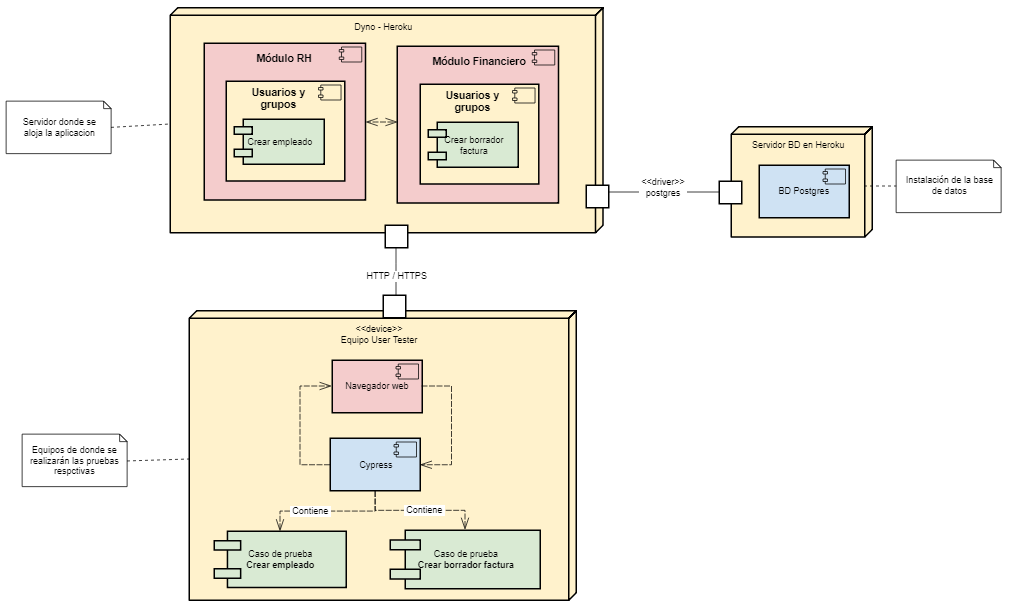
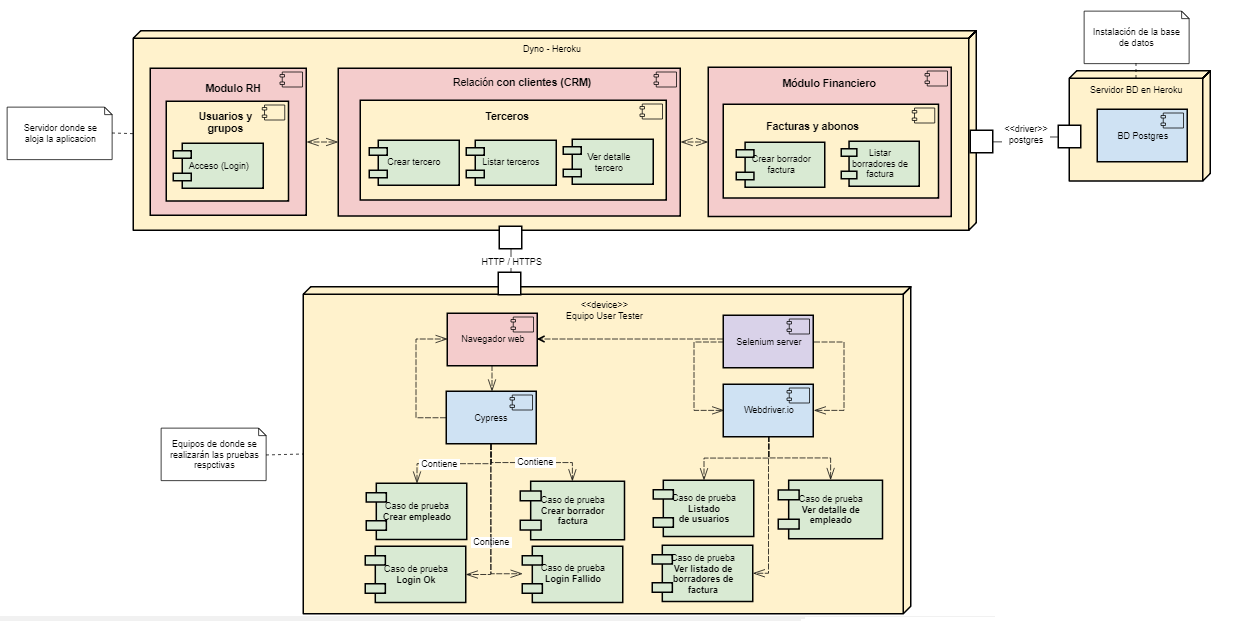
Modificacion de imagenes de arquitectura

diff --git a/CasosdePruebas/Cypress/creacion_tercero.js b/CasosdePruebas/Cypress/creacion_tercero.js
@@ -1,0 +1,24 @@
+describe('Creacion de tercero logibarr', function() {
+    it('Visits los dolibarr and login', function() {
+	//acceder a la pagina de pruebas
+        cy.visit('http://dolibarr-pruebas.herokuapp.com/')
+
+	//llenar campos de inicio sesion
+      	cy.get('.login_table').find('input[name="username"]').click().type("admin")
+      	cy.get('.login_table').find('input[name="password"]').click().type("123456")
+      	cy.get('.login_table').contains('Login').click()
+
+	cy.get('.tmenudiv').find('#mainmenutd_companies').click()
+	cy.get('.blockvmenu.blockvmenupair.blockvmenufirst:first').contains('New Third Party').click()
+
+	//se llenan los campos relacionados con el tercero
+	cy.get('.tabBar.tabBarWithBottom').find('input[name="name"]').click({ force: true }).type("Test Tercero")
+	cy.get('.tabBar.tabBarWithBottom').find('input[name="name_alias"]').click({ force: true }).type("Alias Test Tercero")
+	cy.get('.tabBar.tabBarWithBottom').find('select[name="client"]').select("Customer", { force: true })
+	cy.get('.tabBar.tabBarWithBottom').find('select[name="fournisseur"]').select("Yes", { force: true })
+	cy.get('.tabBar.tabBarWithBottom').find('textarea[name="address"]').click({ force: true }).type("Direccion Test Tercero")
+	cy.get('.tabBar.tabBarWithBottom').find('input[name="email"]').click({ force: true }).type("email@tercero.com")
+	cy.get('.tabBar.tabBarWithBottom').find('input[name="phone"]').click({ force: true }).type("1234567")
+	cy.get('.center').find('input[name="create"]').click({ force: true })
+    })
+})

diff --git a/CasosdePruebas/Cypress/invoice_spec.js b/CasosdePruebas/Cypress/invoice_spec.js
@@ -1,0 +1,27 @@
+/*describe('Login', function() {
+    it('Visita el login', function() {
+        cy.visit('http://dolibarr-pruebas.herokuapp.com/index.php')
+      cy.get('.login_table').find('input[id="username"]').click().type("admin")
+      cy.get('.login_table').find('input[id="password"]').click().type("123456")
+      cy.get('input[type="submit"]').click()
+      cy.contains('SuperAdmin')
+    })
+})*/
+describe('Crear factura', function() {
+    it('Crear factura', function() {
+      cy.visit('http://dolibarr-pruebas.herokuapp.com/index.php')
+    //  cy.get('.demothumbtext').first().click({force:true})
+    cy.get('.login_table').find('input[id="username"]').click().type("admin")
+    cy.get('.login_table').find('input[id="password"]').click().type("123456")
+      cy.get('input[type="submit"]').click()
+      cy.get('.billing').click({force:true})
+      cy.get('.menu_contenu_compta_facture_card').find('a[class="vsmenu"]').click({force:true});
+      cy.wait(4000)
+      cy.get('.ui-autocomplete-input').click({force:true}).type("pr")
+      cy.wait(4000)
+      cy.get('li[class="ui-menu-item"]').first().click()
+      cy.get('button[id="reButtonNow"]').click({force:true})
+      cy.get('select[id="selectmode_reglement_id"]').select("4",{force:true})
+      cy.get('.center').find('input[type="submit"]').click()
+    })
+})
